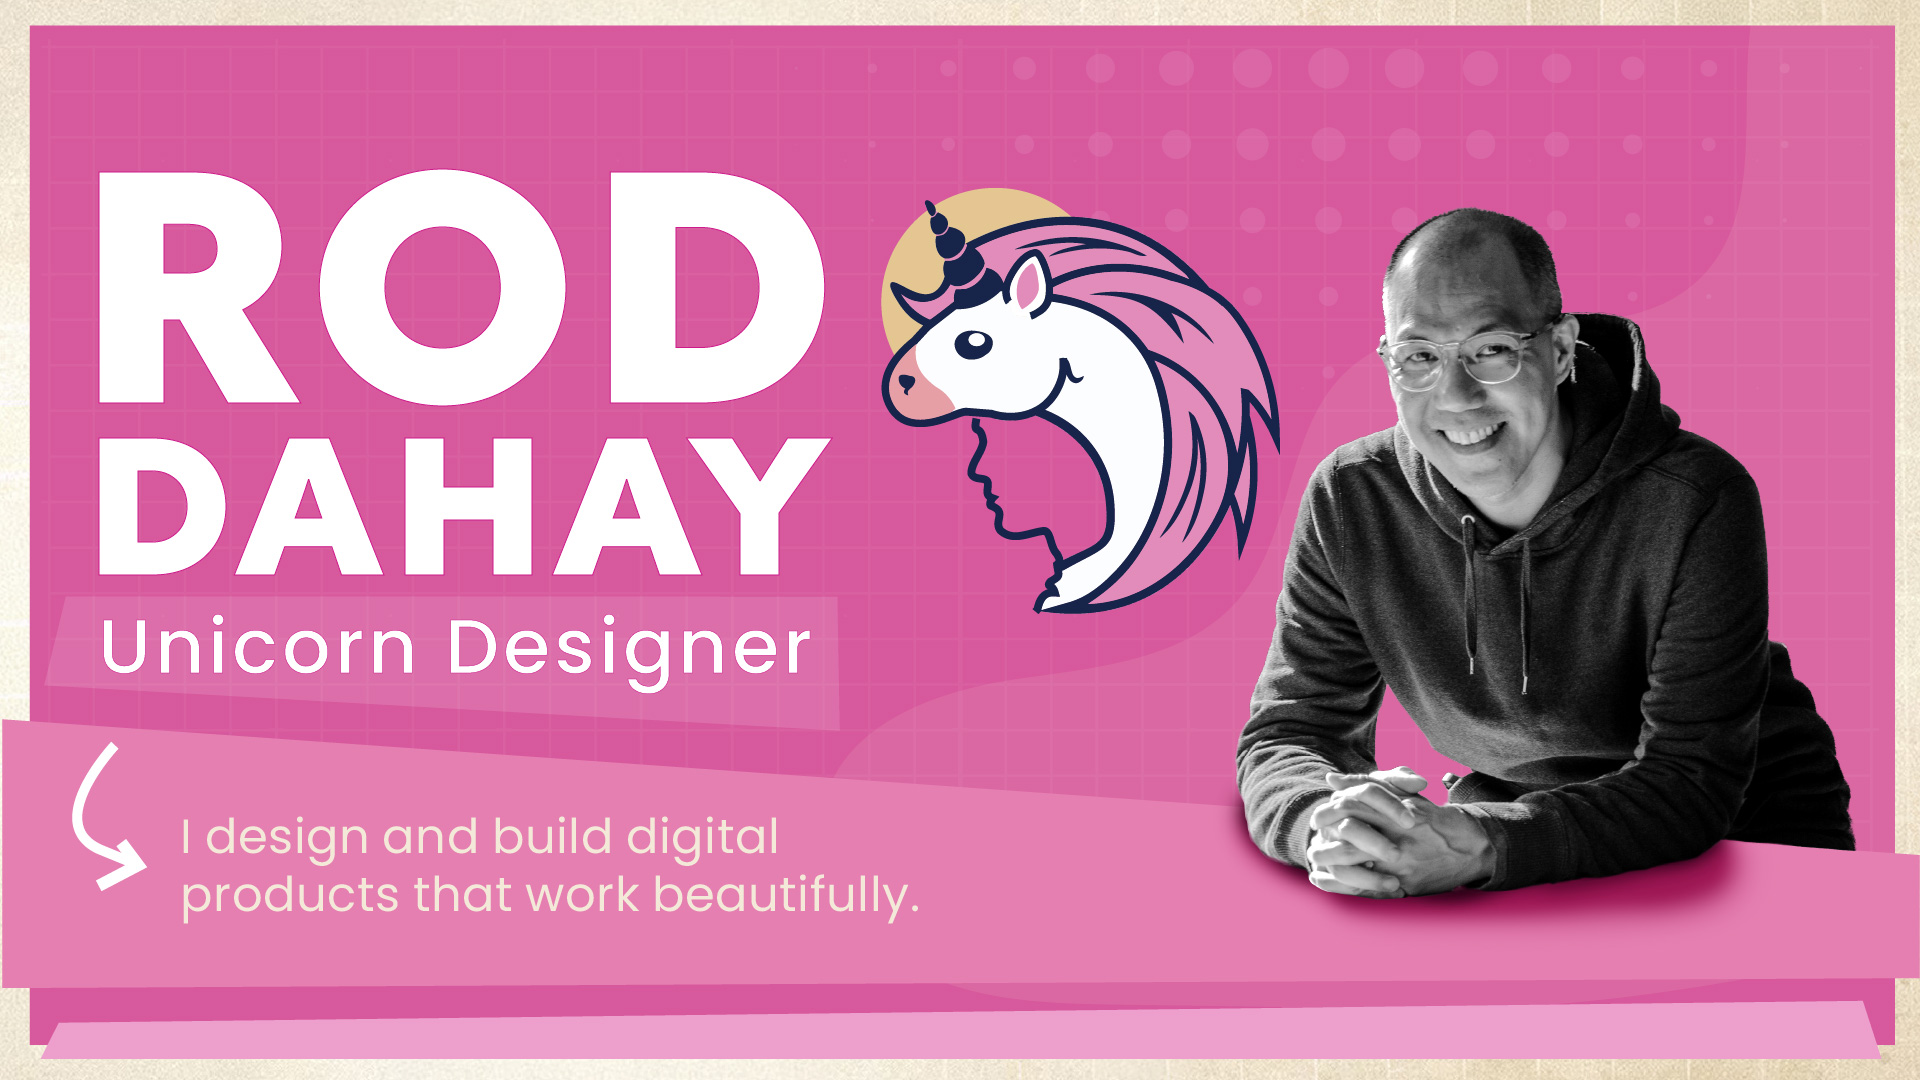
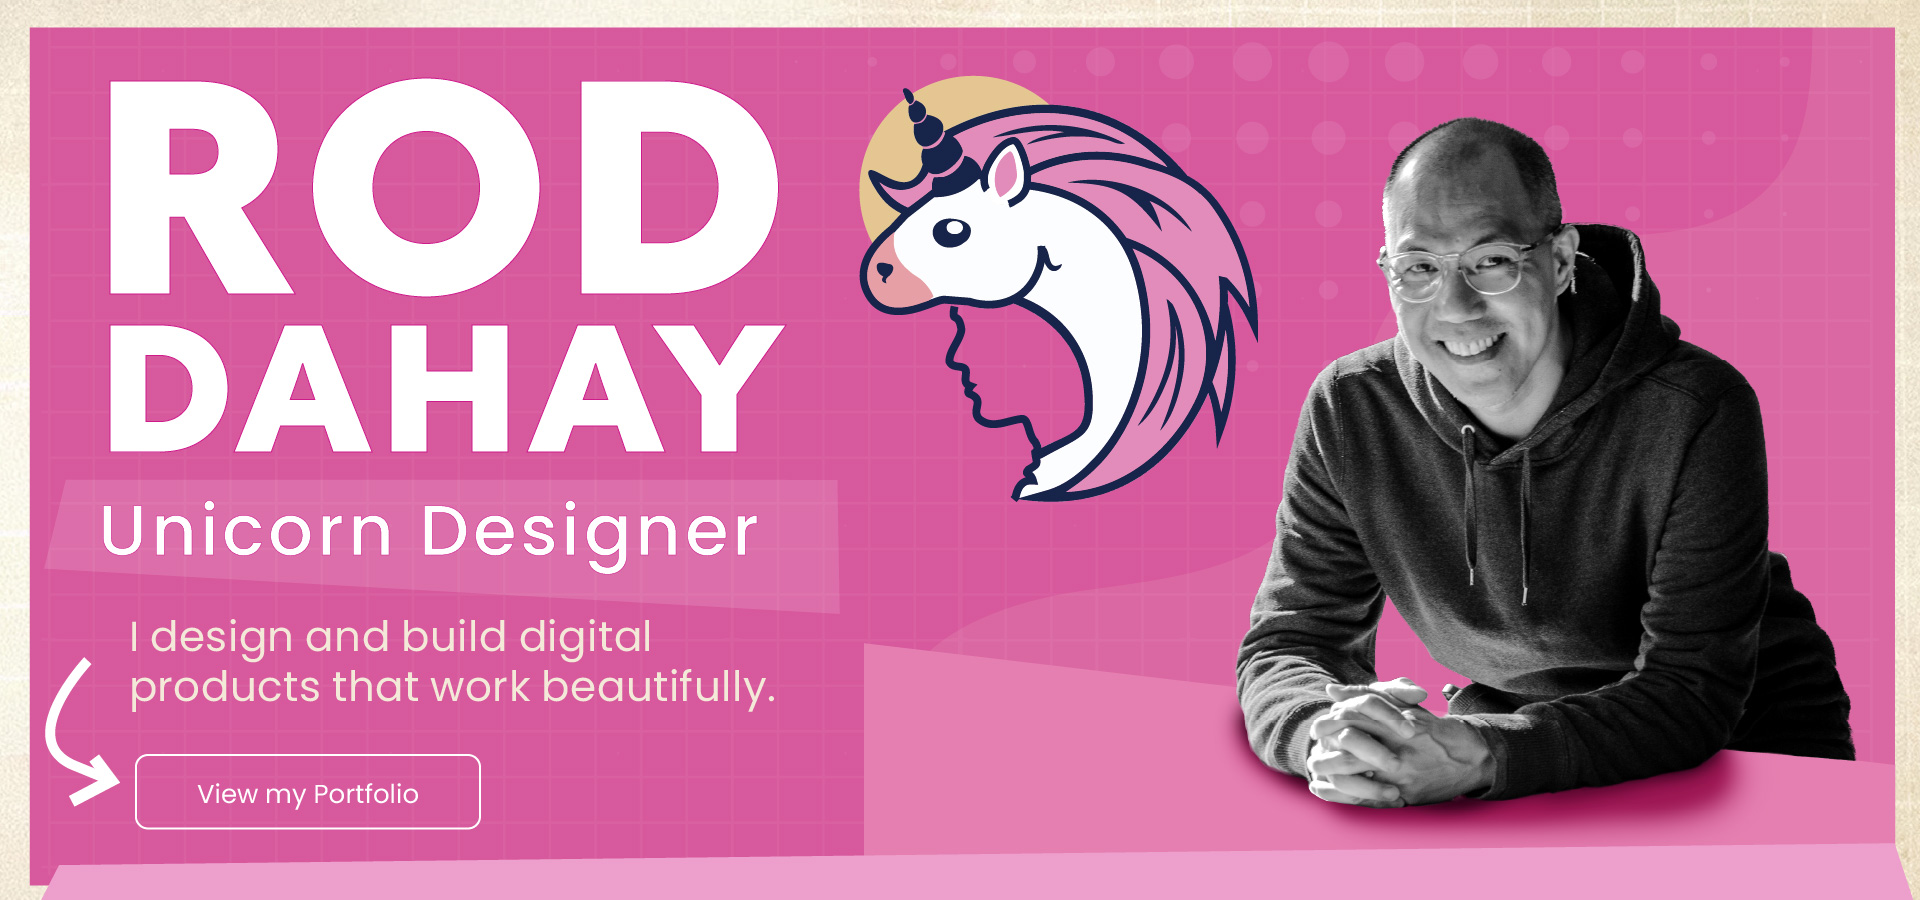
Added featured works in my portfolio list

diff --git a/app/page.tsx b/app/page.tsx
@@ -3,19 +3,34 @@ import Link from "next/link";
 import { cn, sortPosts } from "@/lib/utils";
 import { posts } from "#site/content";
 import { PostItem } from "@/components/post-item";
+import Image from "next/image";
+import { ArrowRight } from "lucide-react";
 
 export default function Home() {
 
   const latestPosts = sortPosts(posts).filter((post) => post.published).slice(0, 5);
+  const featuredSlugs = [
+    "portfolio/easyconnect-mobile",
+    "portfolio/aquaforma-microsite",
+    "portfolio/turn-by-turn-web",
+  ];
+  const featuredPosts = featuredSlugs
+    .map((slug) => posts.find((post) => post.slug === slug && post.published))
+    .filter((post): post is NonNullable<typeof post> => Boolean(post));
 
   return (
     <>
-      <section className="space-y-6 pb-8 pt-0 md:pb-12 lg:pb-32">
+      <section className="space-y-6 pb-8 pt-0 md:pb-2">
         <div className="container mx-auto max-w-6xl text-center">
           {/* <h1 className="text-3xl sm:text-5xl md:text-6xl lg:text-7xl font-black mb-6">
           Hi, I Design & Develop <span className="inline-block sm:block">Digital Experiences</span>
           </h1> */}
-          <div className="relative left-1/2 mb-8 aspect-square w-screen -translate-x-1/2 overflow-hidden md:aspect-video lg:my-5 lg:w-[calc(100vw-40px)]">
+          <Link
+            href="/portfolio"
+              target="_blank"
+              rel="noreferrer"
+          >
+          <div className="relative left-1/2 mb-8 h-[1080px] w-screen -translate-x-1/2 overflow-hidden sm:h-[420px] md:h-[560px] lg:my-5 lg:h-[900px] lg:w-[calc(100vw-40px)]">
             <picture>
               <source
                 media="(max-width: 719px)"
@@ -24,13 +39,67 @@ export default function Home() {
               <img
                 src="/images/Storyboard-portfolio.jpg"
                 alt="Storyboard portfolio banner"
-                className="h-full w-full object-cover object-center md:object-contain"
+                className="h-full w-full object-cover object-center"
               />
             </picture>
           </div>
-          <p className="max-w-[90rem] mx-auto font-light sm:text-xl mb-10">
+          </Link>
+            <p className="max-w-[90rem] mx-auto font-light sm:text-xl mb-10">
           I&apos;m Rod Dahay, a passionate UI designer and developer. Explore my portfolio to see my professional work and innovative projects built with WordPress, React/Next.js, and Angular.
           </p>
+        </div>
+      </section>
+      <section className="px-5 py-10 sm:px-6 lg:px-8 lg:py-12">
+        <div className="mx-auto flex w-full max-w-6xl flex-col gap-8">
+          <div className="w-full">
+            <h2 className="text-3xl font-semibold tracking-[-0.03em] text-black sm:text-4xl md:text-[45px]">
+              Featured Work
+            </h2>
+          </div>
+          <div className="grid gap-8 md:grid-cols-2 xl:grid-cols-3 xl:gap-[24px]">
+            {featuredPosts.map((post) => (
+              <article key={post.slug} className="flex h-full flex-col gap-6">
+                <Link
+                  href={`/${post.slug}`}
+                  className="group block overflow-hidden bg-[#d9d9d9] rounded-lg"
+                >
+                  <div className="relative aspect-[373/300] w-full">
+                    {post.coverImage ? (
+                      <Image
+                        src={post.coverImage}
+                        alt={post.title}
+                        fill
+                        className="object-cover transition-transform duration-300 group-hover:scale-[1.02] rounded-lg"
+                        sizes="(max-width: 767px) 100vw, (max-width: 1279px) 50vw, 373px"
+                        priority
+                      />
+                    ) : null}
+                  </div>
+                </Link>
+                <div className="flex flex-1 flex-col gap-4 text-black">
+                  <h2 className="text-2xl leading-tight tracking-[-0.02em]">
+                    <Link href={`/${post.slug}`}>{post.title}</Link>
+                  </h2>
+                  {post.description ? (
+                    <p className="text-base leading-7 text-black md:text-lg">
+                      {post.description}
+                    </p>
+                  ) : null}
+                </div>
+                <Link
+                  href={`/${post.slug}`}
+                  className="inline-flex items-center gap-2 text-lg font-semibold tracking-[-0.02em] text-[#fb64b6] transition-colors hover:text-pink-600"
+                >
+                  View Case Study
+                  <ArrowRight className="h-4 w-4" />
+                </Link>
+              </article>
+            ))}
+          </div>
+        </div>
+      </section>
+      <section>
+         
           <div className="flex flex-col gap-4 justify-center sm:flex-row">
             <Link
               href="/portfolio"
@@ -50,11 +119,10 @@ export default function Home() {
               View Archive Portfolio
             </Link>
           </div>
-        </div>
       </section>
       {/* <div className="container mx-auto flex h-14 max-w-screen-2xl items-center"></div> */}
       <section className="container mx-auto max-w-6xl py-6 lg:py-10 flex flex-col space-y-6">
-      <h2 className="text-3xl sm:text-5xl md:text-6xl font-semibold text-center">
+      <h2 className="text-3xl sm:text-5xl md:text-6xl font-normal text-center">
           Latest Portfolio
         </h2>
         <ul className="flex flex-col">

diff --git a/app/portfolio/[...slug]/page.tsx b/app/portfolio/[...slug]/page.tsx
@@ -8,7 +8,9 @@ import { MDXContent } from "@/components/mdx-components";
 import { Tag } from "@/components/tags";
 import Link from "next/link";
 
-export async function generateMetadata({ params }: { params: { slug: string[] } }): Promise<Metadata> {
+type PostPageParams = Promise<{ slug: string[] }>;
+
+export async function generateMetadata({ params }: { params: PostPageParams }): Promise<Metadata> {
     const post = await getPostFromParams(params);
     if (!post) {
         return {}
@@ -37,12 +39,14 @@ export async function generateMetadata({ params }: { params: { slug: string[] } 
     };
 }
 
-async function getPostFromParams(params: { slug: string[] }) {
-    if (!params?.slug) {
+async function getPostFromParams(params: PostPageParams) {
+    const resolvedParams = await params;
+
+    if (!resolvedParams?.slug) {
         return null;
     }
 
-    const slug = params.slug.join("/");
+    const slug = resolvedParams.slug.join("/");
     const post = posts.find((post) => post.slugAsParams === slug);
     return post;
 }
@@ -51,7 +55,7 @@ export async function generateStaticParams(): Promise<{ slug: string[] }[]> {
     return posts.map((post) => ({ slug: post.slugAsParams.split("/") }));
 }
 
-export default async function PostPage({ params }: { params: { slug: string[] } }) {
+export default async function PostPage({ params }: { params: PostPageParams }) {
     const post = await getPostFromParams(params);
 
     if (!post || !post.published) {

diff --git a/app/portfolio/page.tsx b/app/portfolio/page.tsx
@@ -16,9 +16,9 @@ export const metadata: Metadata = {
 const POSTS_PER_PAGE = 5;
 
 interface PortfolioPageProps{
-    searchParams:{
+    searchParams: Promise<{
         page?: string;
-    }
+    }>
 }
 
 export default async function PortfolioPage({searchParams}: PortfolioPageProps) {
